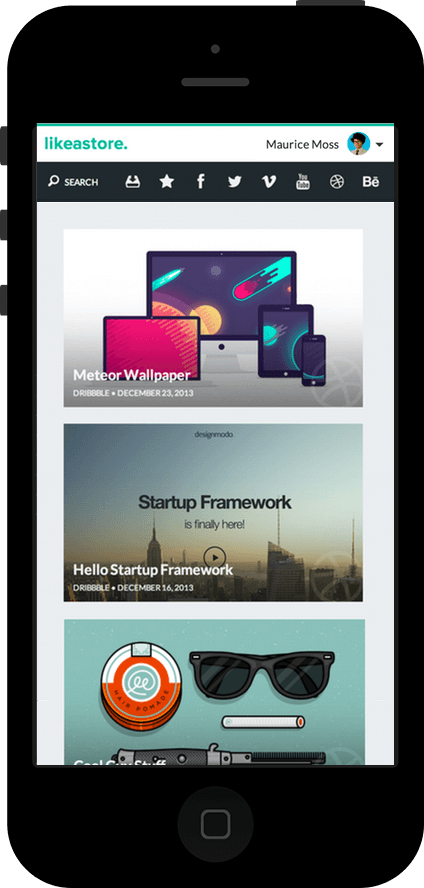
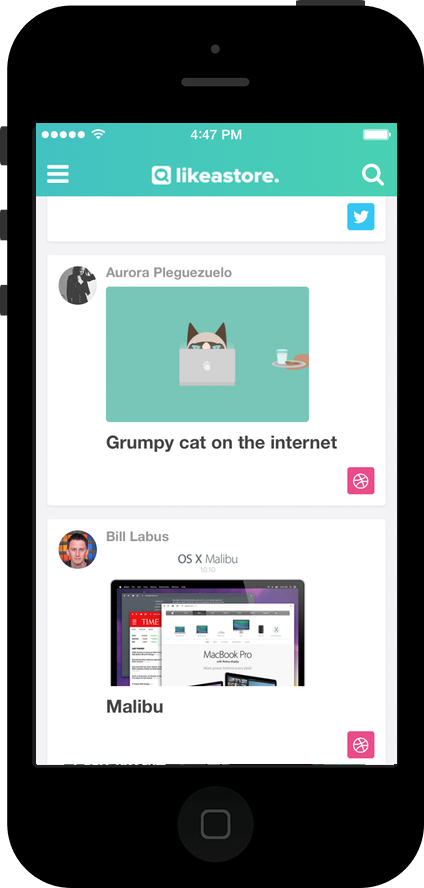
update screenshots and add button play

diff --git a/public/css/developers.css b/public/css/developers.css
@@ -176,15 +176,16 @@ body {
 }
 
 .index .browser {
-  background: url('../img/feed-box.png') top center no-repeat;
+  background: url('/img/big-screen-favorites.png') center top no-repeat;
   -webkit-background-size: 100%;
   background-size: 100%;
   margin: 45px 0 0;
   width: 550px;
-  height: 590px;
+  height: 640px;
   position: absolute;
   right: 0;
-  opacity: .9;
+  opacity: .98;
+  cursor: pointer;
   -webkit-box-shadow: -1px -25px 16px 5px rgba(255,255,255,0.2);
   box-shadow: -1px -25px 16px 5px rgba(255,255,255,0.2);
 }
@@ -227,7 +228,7 @@ body {
   bottom: 75px;
   right: -40px;
   margin: 0 auto;
-  opacity: .96;
+  opacity: .98;
   -webkit-transition: all .3s;
   transition: all .3s;
 }
@@ -444,6 +445,26 @@ body {
   width: 640px;
   height: 400px;
   padding: 0;
+}
+
+.play-button {
+  width: 120px;
+  height: 120px;
+  background: #fff;
+  border-radius: 100%;
+  position: absolute;
+  z-index: 10;
+  background: url('/img/play.png') no-repeat center;
+  -webkit-background-size: contain;
+  background-size: contain;
+  left: 50%;
+  margin-left: -60px;
+  top: 15%;
+  opacity: .5;
+}
+
+.index .browser:hover .play-button {
+  opacity: .7;
 }
 
 @media (max-width: 960px) {

diff --git a/myth/developers.css b/myth/developers.css
@@ -186,14 +186,15 @@ body {
 }
 
 .index .browser {
-	background: url('../img/feed-box.png') top center no-repeat;
+	background: url('/img/big-screen-favorites.png') center top no-repeat;
 	background-size: 100%;
 	margin: 45px 0 0;
 	width: 550px;
-	height: 590px;
+	height: 640px;
 	position: absolute;
 	right: 0;
-	opacity: .9;
+	opacity: .98;
+	cursor: pointer;
 	box-shadow: -1px -25px 16px 5px rgba(255,255,255,0.2);
 }
 
@@ -235,7 +236,7 @@ body {
 	bottom: 75px;
 	right: -40px;
 	margin: 0 auto;
-	opacity: .96;
+	opacity: .98;
 	transition: all .3s;
 }
 
@@ -450,6 +451,25 @@ body {
 	width: 640px;
 	height: 400px;
 	padding: 0;
+}
+
+.play-button {
+	width: 120px;
+	height: 120px;
+	background: #fff;
+	border-radius: 100%;
+	position: absolute;
+	z-index: 10;
+	background: url('/img/play.png') no-repeat center;
+	background-size: contain;
+	left: 50%;
+	margin-left: -60px;
+	top: 15%;
+	opacity: .5;
+}
+
+.index .browser:hover .play-button {
+	opacity: .7;
 }
 
 @media (max-width: 960px) {

diff --git a/views/landing_developers.html b/views/landing_developers.html
@@ -24,7 +24,7 @@
 	</ul>
 </nav>
 
-<section id="index" class="vow index" style="background-image: url('https://tour.likeastore.com/img/polygons.png');">
+<section id="index" class="vow index animated delay-300ms fadeIn" style="background-image: url('https://tour.likeastore.com/img/polygons.png');">
 	<div class="cont">
 		<div class="index-wrap">
 			<div class="pluses">
@@ -39,6 +39,8 @@
 			<div class="browser-ctrl two"></div>
 			<div class="browser-ctrl three"></div>
 			<img src="/img/iphone-feed.png" class="iphone delay2s animated bounce" alt="Dashboard Iphone">
+
+			<div class="play-button"></div>
 		</div>
 	</div>
 </section>
